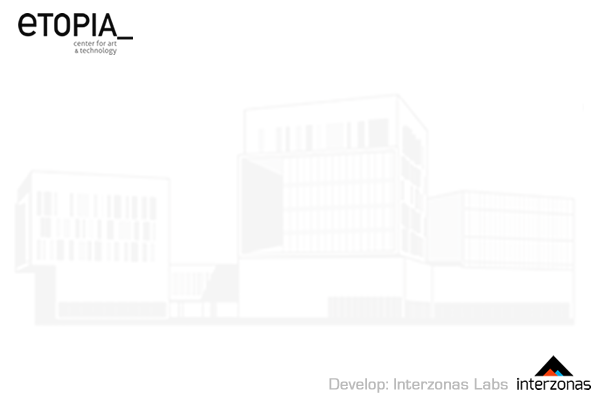
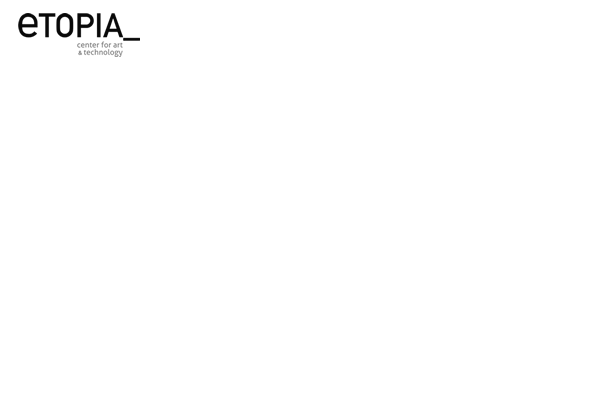
Fondo cambiado y enlace

Changed region(s): [[0.54, 0.87, 0.99, 0.99], [0.03, 0.03, 0.24, 0.15]]

diff --git a/desktopCaptureApp/index.html b/desktopCaptureApp/index.html
@@ -3,6 +3,7 @@
 <style>
   body {
     background: white;
+    background-image: url("body-bk.png");
     display: -webkit-flex;
     -webkit-justify-content: center;
     -webkit-align-items: center;
@@ -35,16 +36,22 @@
     font-size: 15px;
     padding-top: 10px;
   }
+  .logo-int {
+    position: absolute;
+    bottom: 8px;
+    right: 21px;
+  }
 
 </style>
 </head>
 <body>
-
+  <div class="divide30"></div>
   <video id="video"  class="local" autoplay></video>
   <div class="mensaje">Connected and sending screen!</div>
   <div class="divide30"></div>
     <button id="start" class="btn">SCREEN CAPTURE</button>
   <div class="divide30"></div>
+  <div class="logo-int"><a href="http://labs.interzonas.info" target="_blank"><img src="logo-int.png"></a></div>
   <script src="jquery.min.js"></script>
   <script src="peer.js"></script>
   <script src="app.js"></script>
